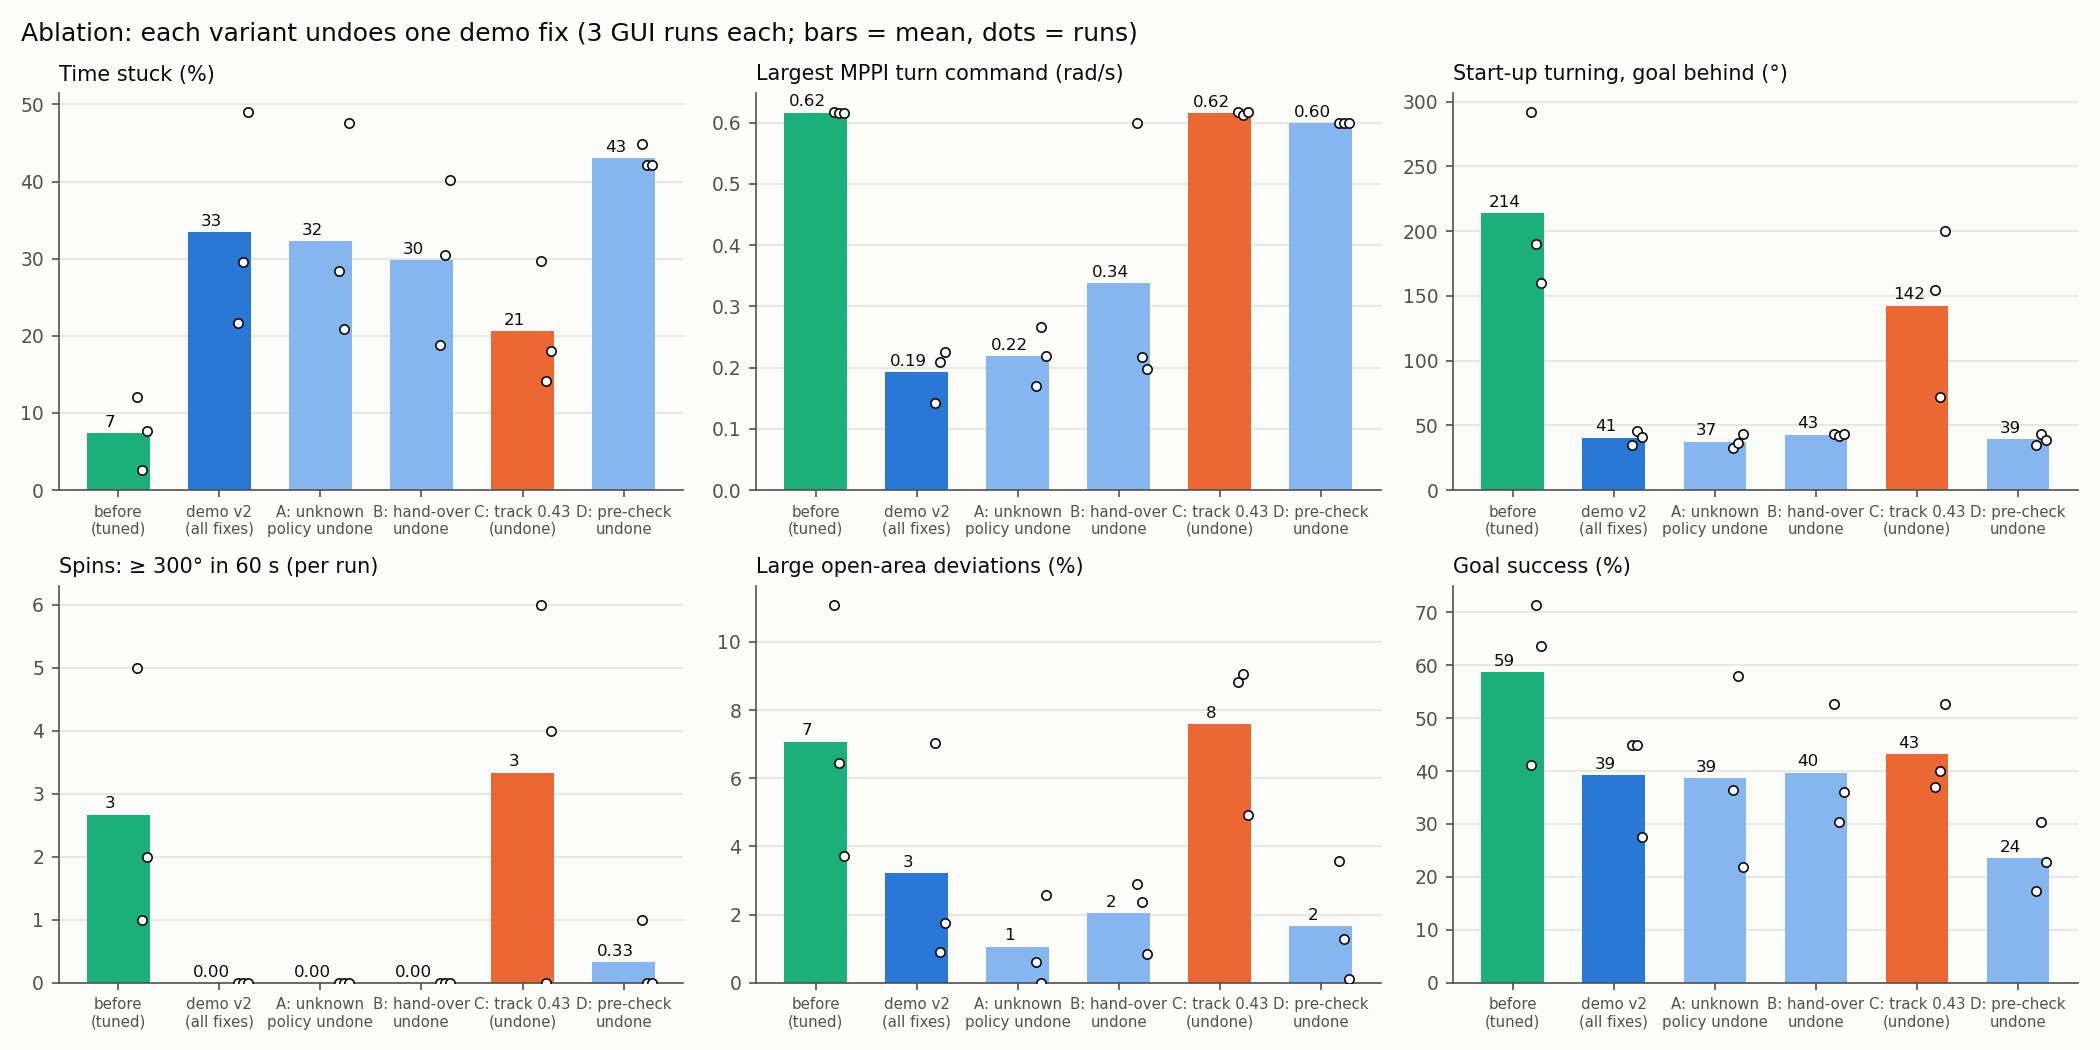
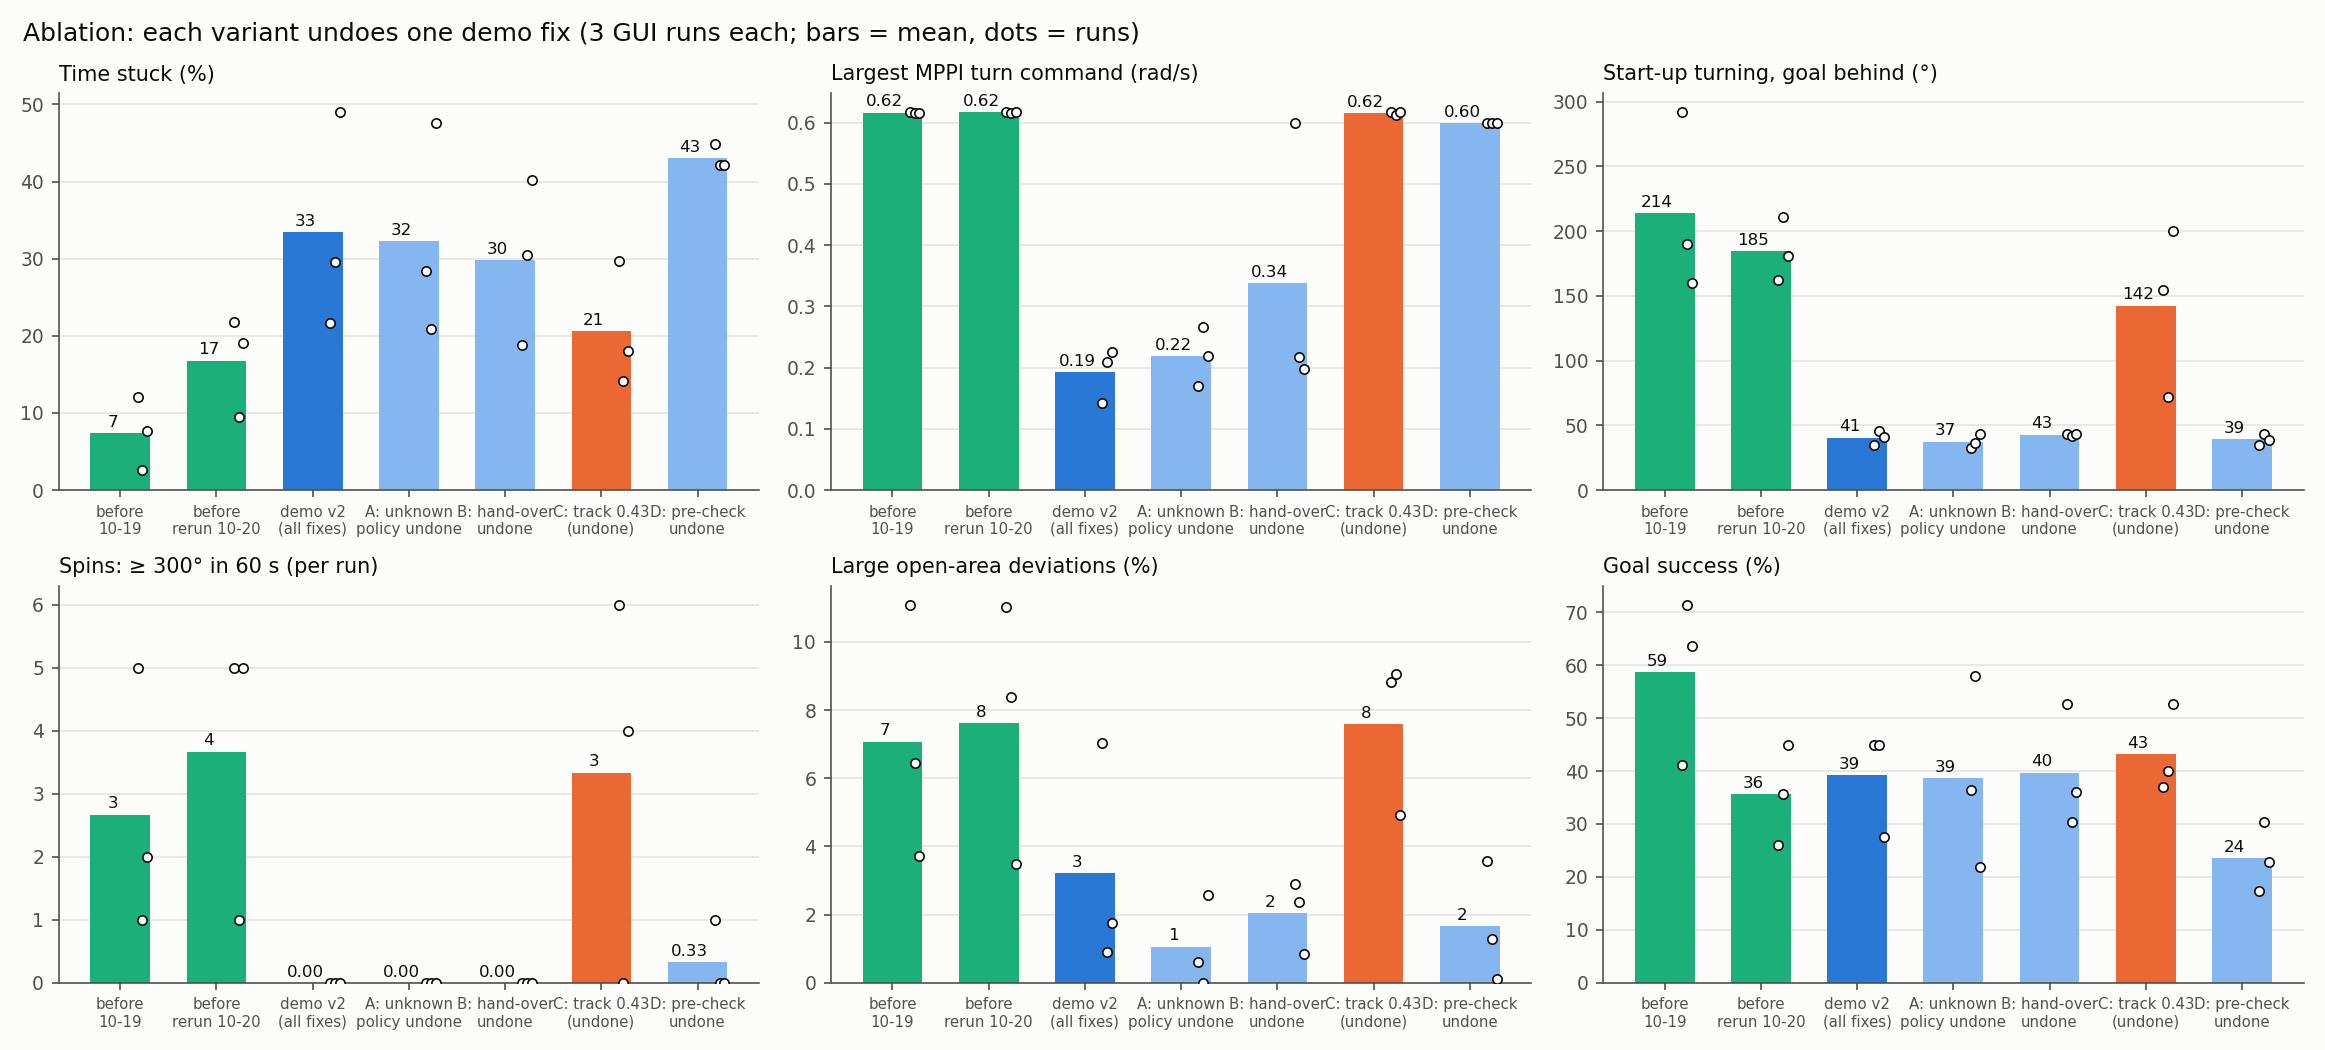
Docs: 'before' rerun control. Planner fixes cost no stuck time; the 0.34 track drives both the accuracy gain and the extra stalls

diff --git a/docs/assets/ablation_2026-10-20/ablation_figure.py b/docs/assets/ablation_2026-10-20/ablation_figure.py
@@ -3,13 +3,13 @@
 import json, sys, numpy as np, matplotlib
 matplotlib.use('Agg'); import matplotlib.pyplot as plt
 R = json.load(open(sys.argv[1]))
-ARMS = [('tuned', 'before\n(tuned)', '#1baf7a'), ('demo2', 'demo v2\n(all fixes)', '#2a78d6'), ('unk', 'A: unknown\npolicy undone', '#86b6ef'),
+ARMS = [('tuned', 'before\n10-19', '#1baf7a'), ('tunedR', 'before\nrerun 10-20', '#1baf7a'), ('demo2', 'demo v2\n(all fixes)', '#2a78d6'), ('unk', 'A: unknown\npolicy undone', '#86b6ef'),
         ('hand', 'B: hand-over\nundone', '#86b6ef'), ('track', 'C: track 0.43\n(undone)', '#eb6834'), ('prechk', 'D: pre-check\nundone', '#86b6ef')]
 K = [('stuck_pct', 'Time stuck (%)'), ('cmd_wz_absmax', 'Largest MPPI turn command (rad/s)'), ('startup_turn_deg', 'Start-up turning, goal behind (°)'),
      ('rotations_300', 'Spins: ≥ 300° in 60 s (per run)'), ('open_big_pct', 'Large open-area deviations (%)'), ('goal_success_pct', 'Goal success (%)')]
 SURF, T1, T2, GRID = '#fcfcfb', '#0b0b0b', '#52514e', '#e4e3df'
 plt.rcParams.update({'font.size': 9, 'axes.edgecolor': T2, 'xtick.color': T2, 'ytick.color': T2, 'axes.titlecolor': T1})
-fig, axs = plt.subplots(2, 3, figsize=(14, 7), dpi=150); fig.patch.set_facecolor(SURF)
+fig, axs = plt.subplots(2, 3, figsize=(15.5, 7), dpi=150); fig.patch.set_facecolor(SURF)
 for ax, (k, ttl) in zip(axs.flat, K):
     ax.set_facecolor(SURF); [ax.spines[s].set_visible(False) for s in ('top', 'right')]; ax.grid(axis='y', color=GRID, lw=0.8); ax.set_axisbelow(True)
     for x, (a, lab, c) in enumerate(ARMS):

diff --git a/docs/issues/Stall ablation 2026-10-20.md b/docs/issues/Stall ablation 2026-10-20.md
@@ -54,10 +54,26 @@ Mean, with per-run values in brackets.
   to the committed one, unchanged since 2026-10-06), and timing (RTF 1.000 and 13–14.5
   controller commands/s in every run).
 
+## Control: "before" rerun today
+The tuned setup of 2026-10-19 (`nav2_params_tunnel.yaml`, smoothing BT, 30 s give-up, no
+pre-check, `/map`, `skid_track:=0.43`), 3 GUI runs on 2026-10-20 under the same protocol.
+
+| | before 10-19 | **before rerun 10-20** | C: all fixes at 0.43 | demo v2 (0.34) |
+|---|---|---|---|---|
+| Time stuck | 7 % (12/3/8) | **17 %** (22/9/19) | 21 % (30/14/18) | 33 % (22/30/49) |
+| Goal success | 59 % | 36 % | 43 % | 39 % |
+| Spins per run | 2.7 | 3.7 | 3.3 | **0** |
+| Start-up turning | 214° | 185° | 142° | **41°** |
+| Large open-area deviations | 7.1 % | 7.4 % | 7.6 % | **3.2 %** |
+
+- **The planner fixes cost no stuck time.** The rerun and C, which has every planner fix
+  (explored-space planning, 0.5 m hand-over, pre-check), are indistinguishable (p = 1.00).
+- **The 10-19 "before" runs were on the low side.** Part of the 7 % → 33 % gap was run-to-run
+  spread.
+- **The remaining extra comes from the 0.34 track width.** It is also the source of the
+  accuracy gain. The trade-off is now in one place: how the robot turns.
+
 ## Open
-- Is "before" still 3–12 % stuck when rerun today? It was run on 2026-10-19 with the code of that
-  time. If it reproduces, the remaining stall excess at 0.43 (C: 21 %) comes from a combination of
-  the planner changes, and needs undoing pairs at 0.43.
 - Can path accuracy be kept without the hesitation? For example a track width between 0.34 and
   0.43, or limiting the robot's turn acceleration in the velocity smoother instead, so the
   damping is explicit in the configuration rather than hidden in the sim model.

diff --git a/docs/log/2026-10-20.md b/docs/log/2026-10-20.md
@@ -12,6 +12,8 @@ date: 2026-10-20
 - 12 GUI ablation runs: [[Stall ablation 2026-10-20]].
 
 ## Verified
+- "Before" rerun (3 GUI runs): 17 % stuck (22/9/19), indistinguishable from all planner fixes at
+  track 0.43 (p = 1.00). The planner fixes cost no stuck time; the extra comes from the 0.34 track.
 - The 0.34 m sim track width is what removes the spins (0 vs 3.3 per run at 0.43), shortens
   the start-up turn (about 40° vs 142°) and halves the open-area deviations. It is also what
   caps MPPI's turn commands at about 0.2 rad/s.
@@ -21,7 +23,6 @@ date: 2026-10-20
   world is unchanged (same checksum as committed). RTF 1.000 in all runs.
 
 ## Not yet verified
-- Whether the "before" setup still stalls only 3–12 % when rerun today.
 - Why a narrower track changes MPPI's turning when the steady turn rate doesn't change.
 
 ## Found
